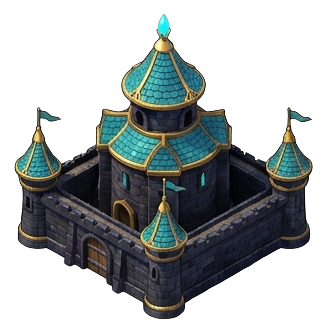
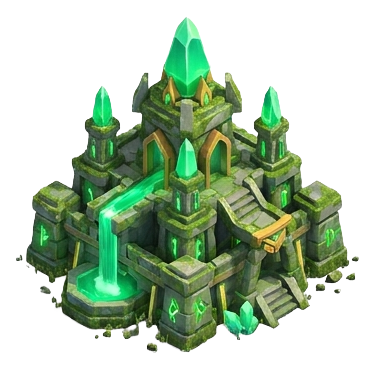
Replace player castle art with crystal set, add leveled NPC castle art from lava set

diff --git a/client/src/App.tsx b/client/src/App.tsx
@@ -67,7 +67,11 @@ const DEFAULT_TILE_WIDTH_INDEX = 2;
 // kendisinden değil, kalenin yanındaki renkli rozetten anlaşılıyor (bkz.
 // ownership-badge) -- bu yüzden eski "mavi sancak/kırmızı sancak" iki-görsel
 // sistemi kaldırıldı, sadece NPC hâlâ ayrı bir görsel kullanıyor (bkz.
-// NPC_CASTLE_ICON).
+// NPC_LEVEL_TIERS).
+// Eren (2. tur): yeşil/yosunlu-kristal temalı yeni 6 seviyelik kale seti
+// gönderdi ("Npc ve Oyuncu kaleleri olucaklar") -- eski lacivert/turkuaz seti
+// bu dosyaların YERİNE (aynı dosya adlarıyla) kondu, kod tarafında değişiklik
+// gerekmedi.
 const CASTLE_LEVEL_TIERS: [number, string][] = [
   [200, "/buildings/castle_levels/level_200.png"],
   [100, "/buildings/castle_levels/level_100.png"],
@@ -82,14 +86,29 @@ function castleImageForLevel(level: number): string {
   }
   return CASTLE_LEVEL_TIERS[CASTLE_LEVEL_TIERS.length - 1][1];
 }
-// Eren'in gönderdiği gerçek NPC kalesi görseli (koyu lacivert/altın,
-// gözcü kulesi ortada) -- geçici oyuncu-kalesi placeholder'ı kaldırıldı.
-const NPC_CASTLE_ICON = "/buildings/npc_castle.png";
+// Eren (2. tur): NPC kampları için de lav/şeytani temalı yeni bir set
+// gönderdi -- eskiden NPC tek bir sabit görsel kullanıyordu (npc_castle.png),
+// artık oyuncu kalesiyle aynı mantıkla NPC'nin KENDİ seviyesine (bkz.
+// mapgen.ts: NPC'ler hep 1-3 arası doğuyor) göre 3 farklı görselden biri
+// seçiliyor -- en küçük/orta/en gösterişli üç kule NPC'nin 1/2/3 seviyesine
+// atandı, kalan üç görsel ileride NPC seviye aralığı büyürse diye ayrı
+// tutuldu (henüz projeye eklenmedi).
+const NPC_LEVEL_TIERS: [number, string][] = [
+  [3, "/buildings/npc_castle_levels/npc_level_3.png"],
+  [2, "/buildings/npc_castle_levels/npc_level_2.png"],
+  [1, "/buildings/npc_castle_levels/npc_level_1.png"],
+];
+function npcCastleImageForLevel(level: number): string {
+  for (const [threshold, src] of NPC_LEVEL_TIERS) {
+    if (level >= threshold) return src;
+  }
+  return NPC_LEVEL_TIERS[NPC_LEVEL_TIERS.length - 1][1];
+}
 // Kale görsellerinin en-boy oranı (~1.37) -- kutunun dışına taşmasın diye
-// kale/NPC boyutu bu orana göre hesaplanıyor (bkz. aşağıdaki
-// castleBoxWidth/Height). object-fit:contain her görselin kendi gerçek
-// oranını koruduğu için 6 seviye görselinin birbirinden farklı oranları
-// olması sorun değil -- bu sadece dıştaki kutunun oranı.
+// NPC kale boyutu bu orana göre hesaplanıyor (bkz. aşağıdaki npcBoxWidth).
+// object-fit:contain her görselin kendi gerçek oranını koruduğu için NPC'nin
+// 3 seviye görselinin birbirinden farklı oranları olması sorun değil -- bu
+// sadece dıştaki kutunun oranı.
 const CASTLE_IMAGE_ASPECT = 700 / 512;
 const ICON_MIN_WIDTH = 28;
 
@@ -1244,9 +1263,10 @@ export default function App() {
                 // Eren'in isteği: gerçek oyuncu kaleleri artık sahipliğe göre
                 // değil SEVİYEYE göre görsel değiştiriyor (bkz.
                 // CASTLE_LEVEL_TIERS) -- sahiplik yanındaki renkli rozetten
-                // anlaşılıyor. NPC kampları hâlâ ayrı, Eren'in gönderdiği
-                // gerçek NPC kale görselini kullanıyor (bkz. NPC_CASTLE_ICON).
+                // anlaşılıyor. NPC kampları da artık KENDİ seviyesine göre 3
+                // görselden birini kullanıyor (bkz. NPC_LEVEL_TIERS).
                 const castleIcon = castleImageForLevel(tile.level);
+                const npcIcon = npcCastleImageForLevel(tile.level);
                 const { cx, cy } = isoCenter(tile.x, tile.y, tileWidth);
                 // Eren: "Oyuncu kalelerini büyüt altıgenin içinde çok küçük
                 // kalıyorlar." -- ölçüm yapıp gerçek sebebi bulduk: eski kod
@@ -1265,9 +1285,13 @@ export default function App() {
                 // (~1.02 oran) bu tavanın altında kalıyor, yani komşu
                 // karolarla üst üste binme riski yok (bkz. Eren'in eski "üst
                 // üste binmeler var" uyarısı -- o hataya geri dönülmedi).
-                // NPC kampları için istek gelmedi, eski oran/boyut korunuyor.
+                // Eren (2. tur, yeni yeşil/kristal set): yeni level_10 görseli
+                // öncekilerden daha "yassı" (~1.18 oran) -- kutu oranı
+                // (1.05'ten 1.2'ye) hafifçe artırıldı ki object-fit:contain bu
+                // görseli de tam yüksekliğine sığdırabilsin, tileWidth*0.94
+                // tavanı üst üste binmeye karşı güvenlik payını zaten koruyor.
                 const castleBoxHeight = tileHeight * 0.82;
-                const castleBoxWidth = Math.min(castleBoxHeight * 1.05, tileWidth * 0.94);
+                const castleBoxWidth = Math.min(castleBoxHeight * 1.2, tileWidth * 0.94);
                 const npcBoxHeight = tileHeight * 0.58;
                 const npcBoxWidth = npcBoxHeight * CASTLE_IMAGE_ASPECT;
                 const castleTop = (tileHeight - castleBoxHeight) / 2;
@@ -1346,7 +1370,7 @@ export default function App() {
                     )}
                     {showNpc && (
                       <img
-                        src={NPC_CASTLE_ICON}
+                        src={npcIcon}
                         alt=""
                         className="iso-castle"
                         style={{
